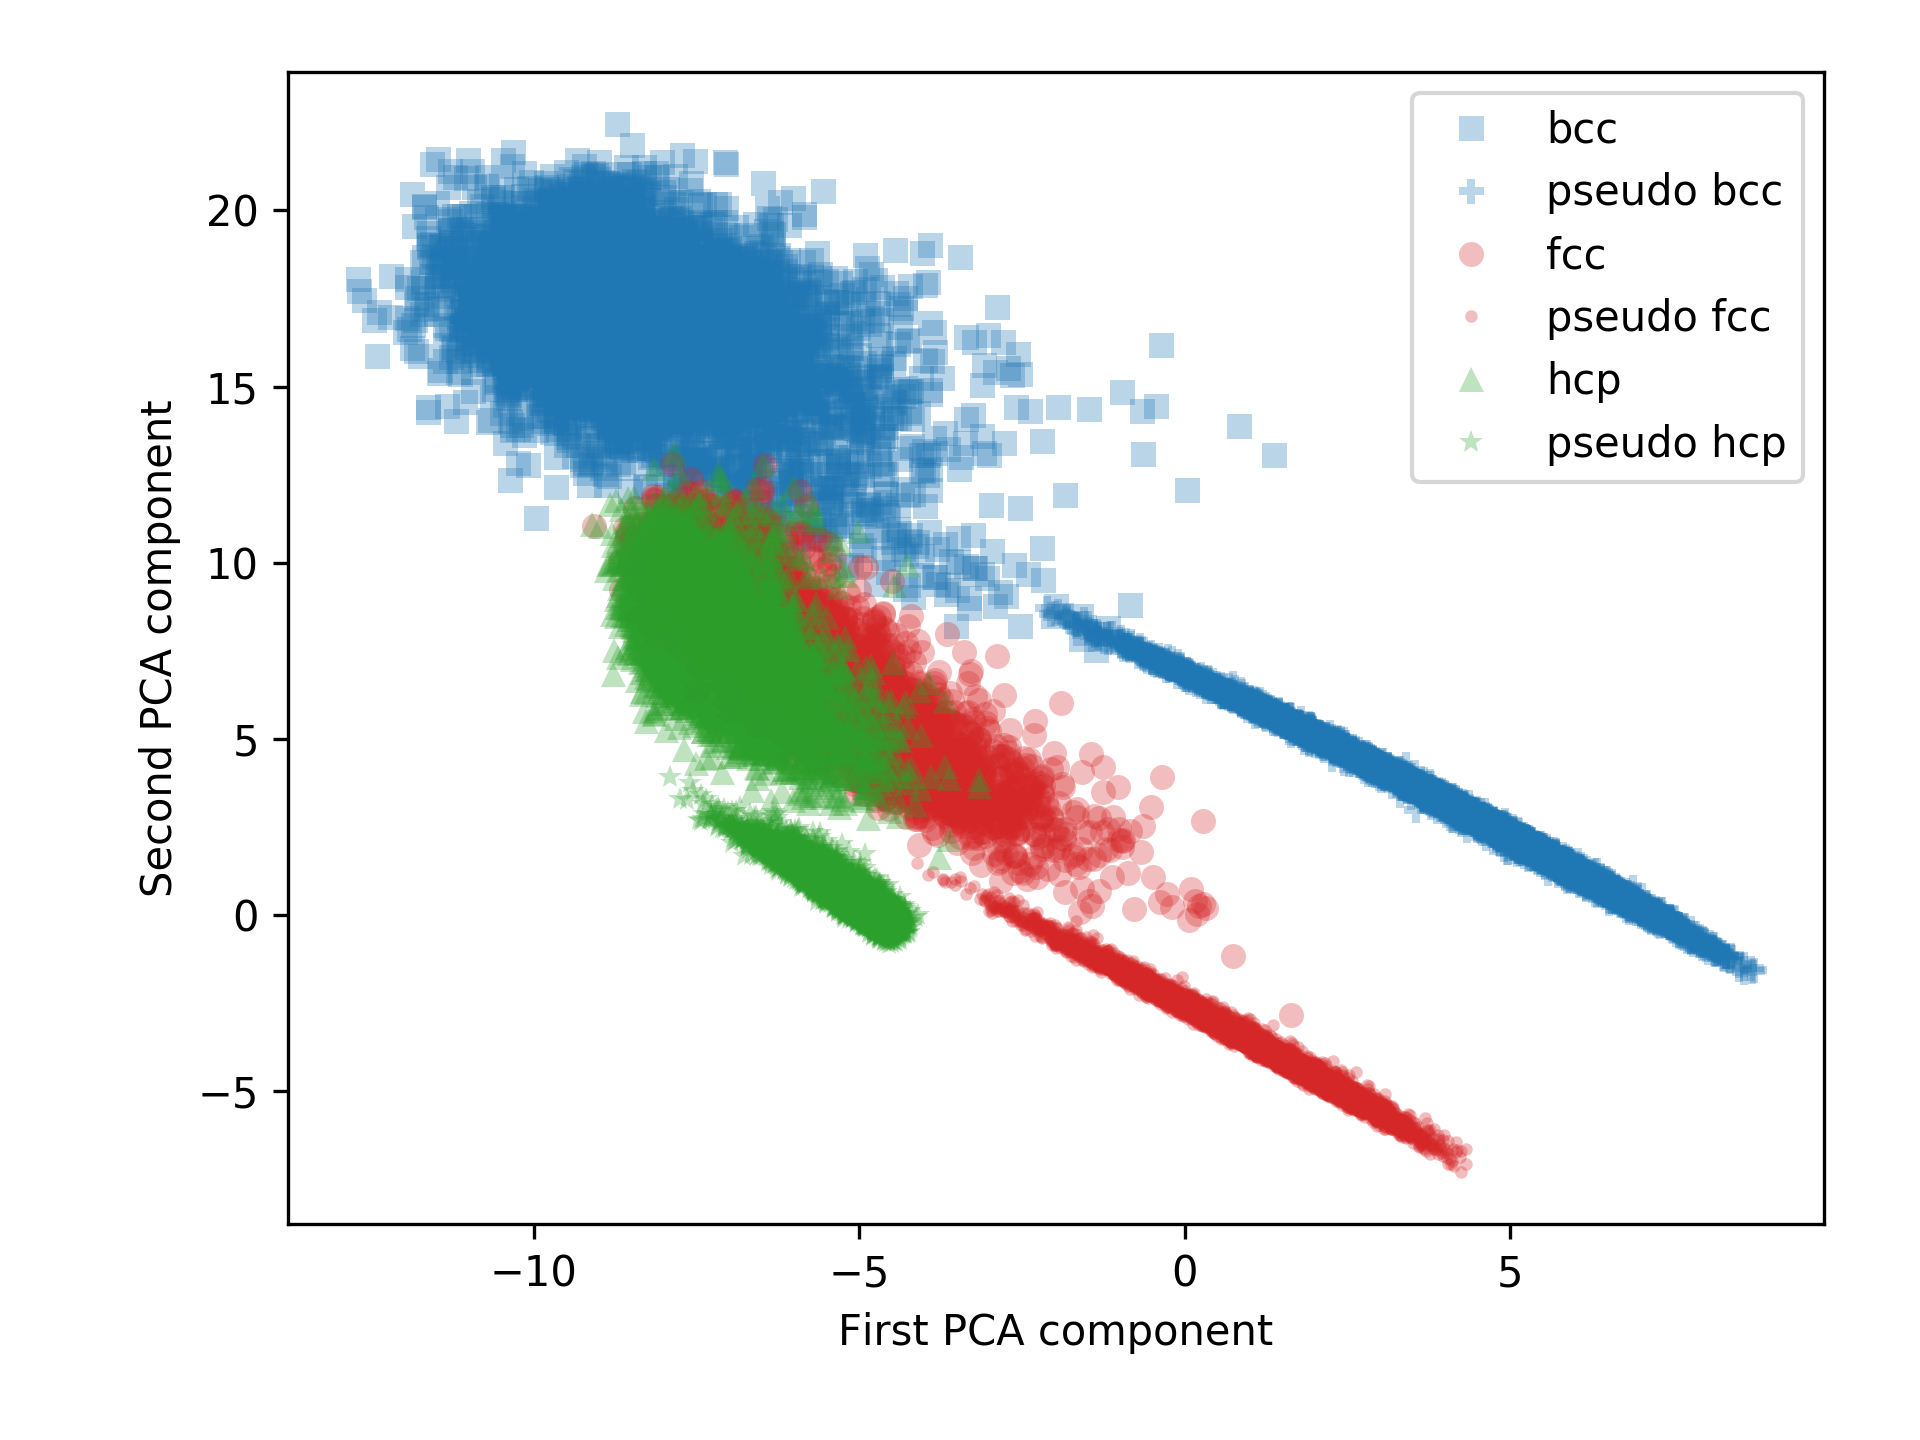
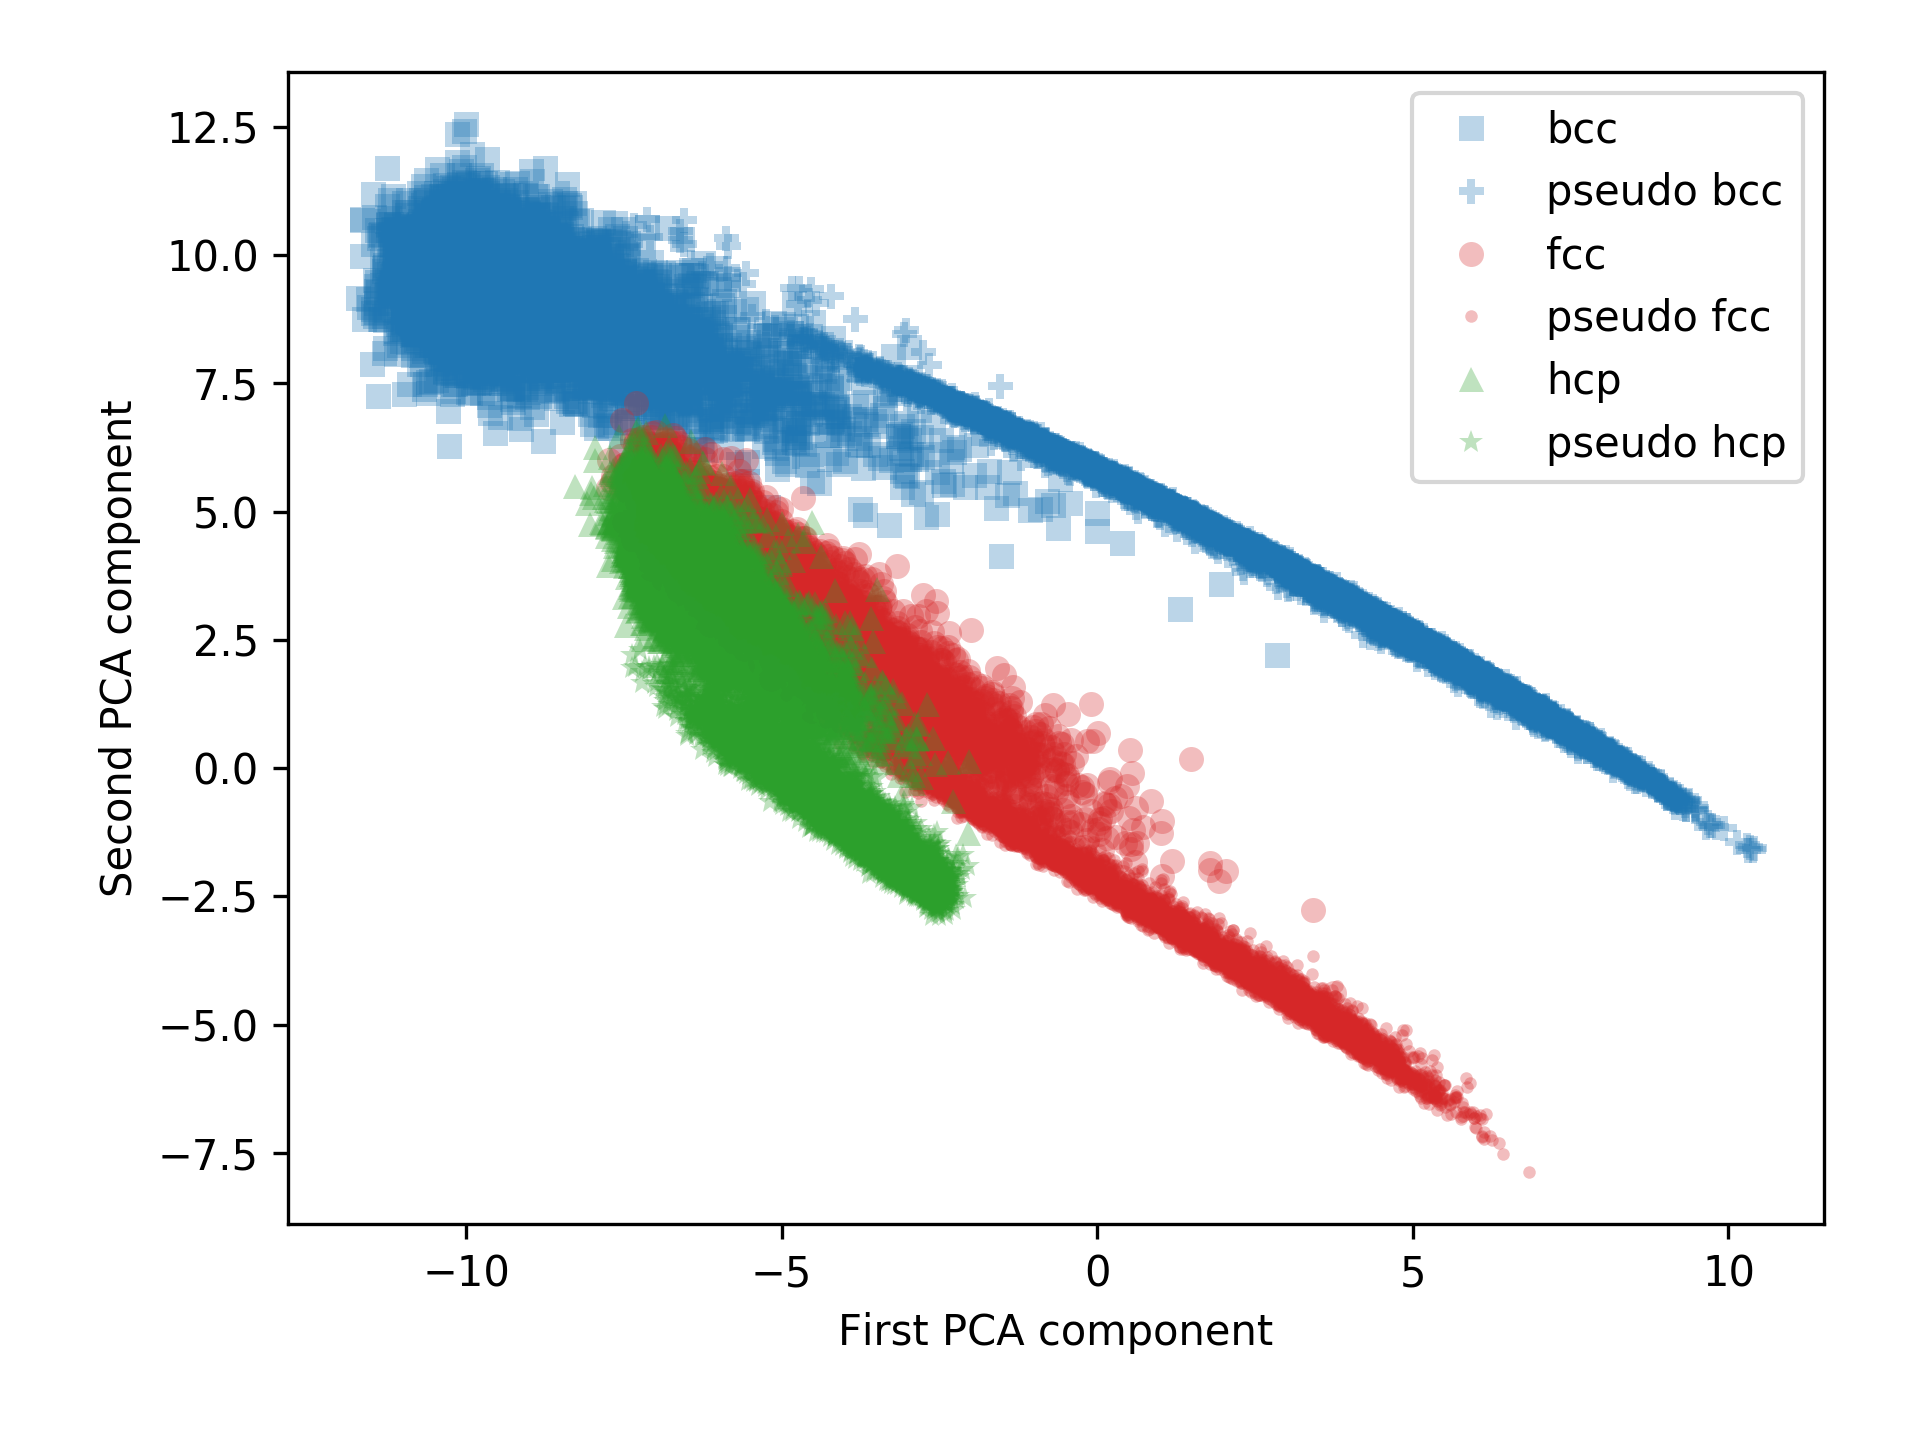
tuning synthetic data generation

diff --git a/01_compute_features/01_compute.py b/01_compute_features/01_compute.py
@@ -1,12 +1,12 @@
 import numpy as np
-from ovito.io import import_file
+from ovito.io import import_file, export_file
 
 from util import calc
 from util import constants as cnst
 from util import dir_util
 
 
-def compute(latt, pseudo=.06):
+def compute(latt, pseudo=.06, cart_only=False):
   steps = [0] if pseudo != None else np.arange(10000,20000+1000,1000) # Step range.
   l = np.arange(1,30+1)
   N_stein = len(l)
@@ -16,7 +16,13 @@ def compute(latt, pseudo=.06):
     pipeline = import_file(dir_util.dump_path_for_lattice00(latt, pseudo != None).format(step))
     data = pipeline.compute()
     if pseudo:
-      data = calc.add_offsets(pipeline, data)
+      data = calc.add_offsets(pipeline, data, position_noise_scaler=pseudo)
+      export_file(
+        data, dir_util.synth_carteasian_path01(latt), "lammps_dump",
+        columns = ["Position.X", "Position.Y", "Position.Z"]
+      )
+      if cart_only:
+        return
     X = np.vstack((X, calc.compute_steinhardt(data,l,latt.n_neigh)))
   np.savetxt(dir_util.all_features_path01(latt, pseudo != None), X, fmt='%.10e')
 
@@ -25,12 +31,13 @@ def main():
   parser = argparse.ArgumentParser()
   parser.add_argument('--latt', type=str, default=None)
   parser.add_argument('--pseudo_param', type=float, default=None)
+  parser.add_argument('--cart_only', action='store_true', help='save cartesian then return before calculating features')
   args = parser.parse_args()
   
   lattices = cnst.lattices if args.latt == None else [cnst.str_to_latt[args.latt]]
   for latt in lattices:
     print(latt.name)
-    compute(latt, args.pseudo_param)
+    compute(latt, args.pseudo_param, cart_only=args.cart_only)
 
 if __name__=='__main__':
   main()

diff --git a/util/calc.py b/util/calc.py
@@ -39,8 +39,7 @@ def steinhardt(r,l):
     Q[i] = sqrt(real((4*pi/(2*l[i]+1)) * sum(q*conjugate(q))))
   return Q
 
-def add_offsets(pipeline, data):
-  position_noise_scaler = .06
+def add_offsets(pipeline, data, position_noise_scaler=.06):
   # get first neighbor distance
   finder = NearestNeighborFinder(1, data)
   # arbitrarily use 10th atom as center
@@ -49,15 +48,16 @@ def add_offsets(pipeline, data):
   # uniformly add noise to positions
   def pipeline_add_offsets(frame, data):
     positions = data.particles_.positions
-    n_total_coords = positions[:].size 
+    n_total_points = positions[:].shape[0]
     # generate unit vectors in random directions
-    displc_vecs = np_rnd.uniform(size=n_total_coords).reshape(positions.shape)
+    displc_vecs = np_rnd.randn(3, n_total_points).T
+    #displc_vecs = np_rnd.uniform(low=-1.0, high=1.0, size=n_total_coords).reshape(positions.shape)
     norms = linalg.norm(displc_vecs, axis=1, keepdims=True)
     displc_vecs = displc_vecs / norms
     # generate uniformly distributed random displacement magnitudes to apply to displc_vecs
     mags = np_rnd.uniform(
         0, first_neigh_d * position_noise_scaler, 
-        size=positions.shape[0]
+        size=n_total_points
     ).reshape(norms.shape)
     displc_vecs = displc_vecs * mags
     # add displacement vectors to positions

diff --git a/util/dir_util.py b/util/dir_util.py
@@ -14,6 +14,9 @@ def all_features_path01(latt, pseudo=False):
   pseudo_prefix = pseudo_pre if pseudo else ''
   return make_dirs('{}data/X/{}X_{}.dat'.format(cnst.raw_feat_path, pseudo_prefix, latt.name))[0]
 
+def synth_carteasian_path01(latt):
+  return make_dirs('{}data/synth_cart/{}.dat'.format(cnst.raw_feat_path, latt.name))[0]
+
 def clean_features_paths02(istest=False, pseudo=False):
   pseudo_prefix = pseudo_pre if pseudo else ''
   split_lbl = 'test' if istest else 'train'
